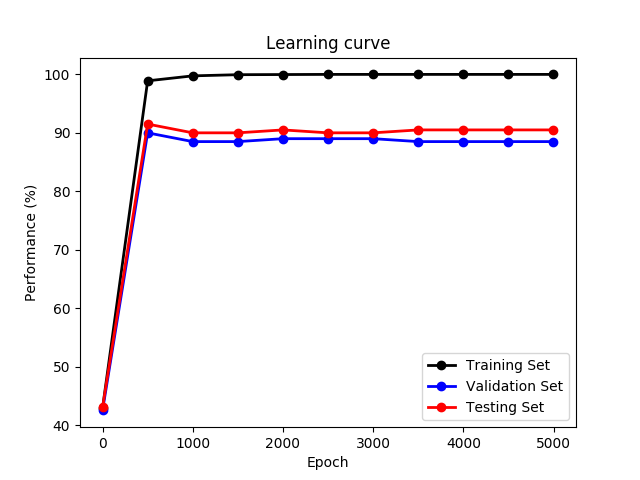
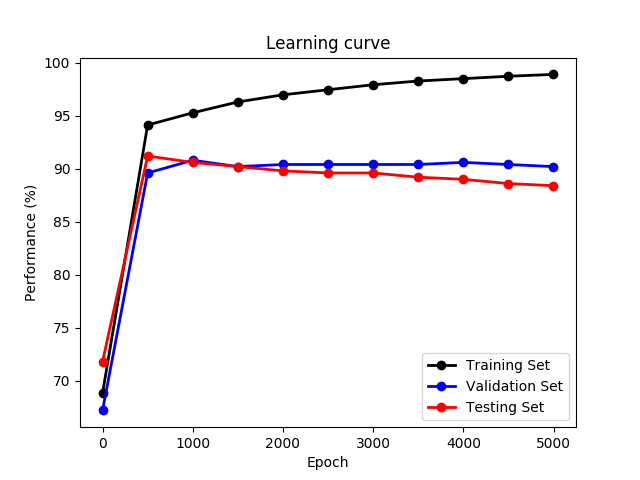
Modify parameters for part4

diff --git a/digits.py b/digits.py
@@ -86,8 +86,8 @@ M = loadmat("mnist_all.mat")
 
 # Set sizes for training, validation and testing sets for each digit
 training_size = 400
-validation_size = 20
-test_size = 20
+validation_size = 50
+test_size = 50
 
 # Make the three sets
 train_label = np.zeros((10, training_size * 10))
@@ -131,7 +131,7 @@ b1 = snapshot["b1"].reshape((10,1))
 init_W = np.dot(W0, W1)
 init_b = b1
 
-alpha = 0.001
+alpha = 0.0001
 
 W, b, epoch, train_perf, validation_perf, test_perf = train_nn(compute_simple_network, gradient_simple_network_w, gradient_simple_network_b, training_set, train_label, validation_set, validation_label, test_set, test_label, init_W, init_b, alpha)
 
